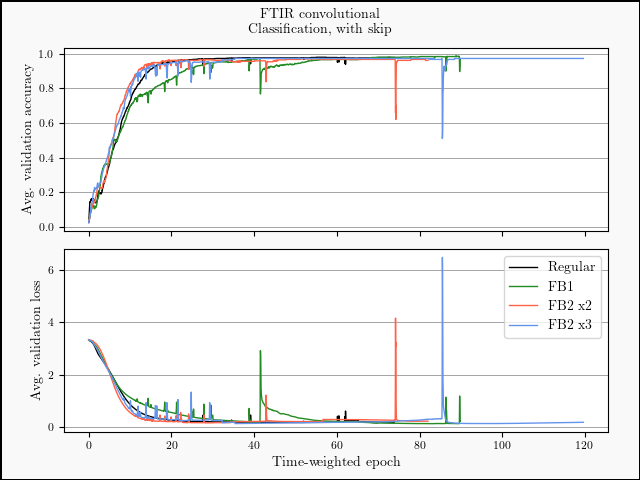
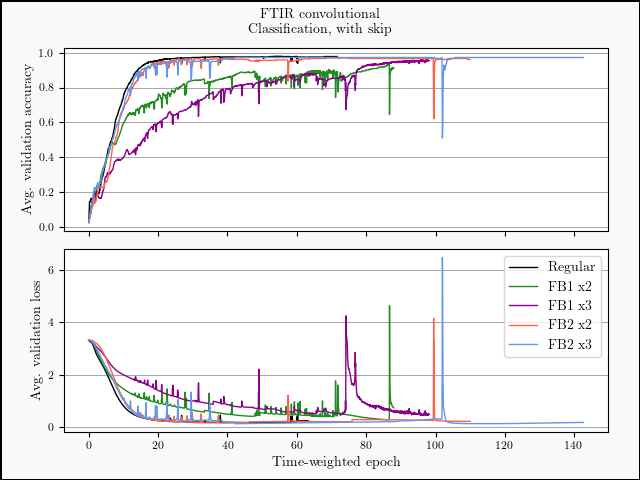
Corresponding timings.

diff --git a/output/timing/timetables/bike-regression.tex b/output/timing/timetables/bike-regression.tex
@@ -7,25 +7,33 @@
         \textbf{\footnotesize ARCHITECTURE} & \textbf{\footnotesize TRAIN} & \textbf{\footnotesize VALIDATE} \\ 
  \hline 
 
-\shortstack[l]{\\ {} \\ \textbf{Regular}\\{w. bypassing skip}} & 75.9705 $\pm$ 0.3820 & 8.0148 $\pm$ 0.5821 \\
+\shortstack[l]{\\ {} \\ \textbf{Regular}\\{w. bypassing skip}} & 76.6534 $\pm$ 0.6014 & 7.7565 $\pm$ 0.6280 \\
  \hline 
-\shortstack[l]{\\ {} \\ \textbf{FB1}\\{w. bypassing skip}} & 80.1148 $\pm$ 0.9472 & 11.7724 $\pm$ 1.0064 \\
+\shortstack[l]{\\ {} \\ \textbf{FB1 x2}\\{w. bypassing skip}} & 82.0148 $\pm$ 0.3988 & 11.0434 $\pm$ 0.2513 \\
  \hline 
-\shortstack[l]{\\ {} \\ \textbf{FB2 x2}\\{w. bypassing skip}} & 132.4095 $\pm$ 0.4612 & 9.7672 $\pm$ 0.7060 \\
+\shortstack[l]{\\ {} \\ \textbf{FB1 x3}\\{w. bypassing skip}} & 86.5867 $\pm$ 1.1901 & 13.7129 $\pm$ 0.4035 \\
  \hline 
-\shortstack[l]{\\ {} \\ \textbf{FB2 x3}\\{w. bypassing skip}} & 177.6235 $\pm$ 0.5752 & 11.8099 $\pm$ 0.3958 \\
+\shortstack[l]{\\ {} \\ \textbf{FB1 x4}\\{w. bypassing skip}} & 90.5914 $\pm$ 0.3139 & 16.8373 $\pm$ 0.6342 \\
  \hline 
-\shortstack[l]{\\ {} \\ \textbf{FB2 x4}\\{w. bypassing skip}} & 219.5080 $\pm$ 0.5722 & 13.3959 $\pm$ 0.4545 \\
+\shortstack[l]{\\ {} \\ \textbf{FB2 x2}\\{w. bypassing skip}} & 135.2480 $\pm$ 0.6549 & 10.4886 $\pm$ 0.9687 \\
  \hline 
-\shortstack[l]{\\ {} \\ \textbf{Regular}\\{}} & 76.5679 $\pm$ 2.9369 & 6.8109 $\pm$ 0.3227 \\
+\shortstack[l]{\\ {} \\ \textbf{FB2 x3}\\{w. bypassing skip}} & 180.5462 $\pm$ 1.0890 & 12.3552 $\pm$ 0.6880 \\
  \hline 
-\shortstack[l]{\\ {} \\ \textbf{FB1}\\{}} & 78.2570 $\pm$ 1.3111 & 10.6004 $\pm$ 1.1105 \\
+\shortstack[l]{\\ {} \\ \textbf{FB2 x4}\\{w. bypassing skip}} & 222.1115 $\pm$ 0.8668 & 13.5646 $\pm$ 0.5086 \\
  \hline 
-\shortstack[l]{\\ {} \\ \textbf{FB2 x2}\\{}} & 130.3365 $\pm$ 1.8586 & 9.5661 $\pm$ 0.7955 \\
+\shortstack[l]{\\ {} \\ \textbf{Regular}\\{}} & 77.2953 $\pm$ 3.5526 & 7.6299 $\pm$ 0.7447 \\
  \hline 
-\shortstack[l]{\\ {} \\ \textbf{FB2 x3}\\{}} & 176.8998 $\pm$ 0.8752 & 11.2936 $\pm$ 0.3903 \\
+\shortstack[l]{\\ {} \\ \textbf{FB1 x2}\\{}} & 80.3674 $\pm$ 0.2398 & 11.0117 $\pm$ 0.3206 \\
  \hline 
-\shortstack[l]{\\ {} \\ \textbf{FB2 x4}\\{}} & 219.8311 $\pm$ 1.6837 & 13.7131 $\pm$ 0.4333 \\
+\shortstack[l]{\\ {} \\ \textbf{FB1 x3}\\{}} & 84.0577 $\pm$ 0.5085 & 13.2720 $\pm$ 0.7195 \\
+ \hline 
+\shortstack[l]{\\ {} \\ \textbf{FB1 x4}\\{}} & 88.9571 $\pm$ 0.6759 & 16.5779 $\pm$ 0.5812 \\
+ \hline 
+\shortstack[l]{\\ {} \\ \textbf{FB2 x2}\\{}} & 133.5556 $\pm$ 0.8742 & 10.0652 $\pm$ 1.0247 \\
+ \hline 
+\shortstack[l]{\\ {} \\ \textbf{FB2 x3}\\{}} & 180.2148 $\pm$ 0.3895 & 11.3339 $\pm$ 0.3349 \\
+ \hline 
+\shortstack[l]{\\ {} \\ \textbf{FB2 x4}\\{}} & 227.6535 $\pm$ 7.1384 & 14.9661 $\pm$ 1.8756 \\
  \hline 
 
     \end{tabular}

diff --git a/output/timing/timetables/iris-classification.tex b/output/timing/timetables/iris-classification.tex
@@ -7,25 +7,33 @@
         \textbf{\footnotesize ARCHITECTURE} & \textbf{\footnotesize TRAIN} & \textbf{\footnotesize VALIDATE} \\ 
  \hline 
 
-\shortstack[l]{\\ {} \\ \textbf{Regular}\\{w. bypassing skip}} & 2.3981 $\pm$ 0.0446 & 0.1922 $\pm$ 0.0248 \\
+\shortstack[l]{\\ {} \\ \textbf{Regular}\\{w. bypassing skip}} & 2.8895 $\pm$ 0.2022 & 0.1707 $\pm$ 0.0181 \\
  \hline 
-\shortstack[l]{\\ {} \\ \textbf{FB1}\\{w. bypassing skip}} & 2.2181 $\pm$ 0.0942 & 0.1783 $\pm$ 0.0142 \\
+\shortstack[l]{\\ {} \\ \textbf{FB1 x2}\\{w. bypassing skip}} & 2.4016 $\pm$ 0.0739 & 0.2073 $\pm$ 0.0247 \\
  \hline 
-\shortstack[l]{\\ {} \\ \textbf{FB2 x2}\\{w. bypassing skip}} & 4.6031 $\pm$ 0.0673 & 0.1720 $\pm$ 0.0242 \\
+\shortstack[l]{\\ {} \\ \textbf{FB1 x3}\\{w. bypassing skip}} & 2.2585 $\pm$ 0.0783 & 0.2313 $\pm$ 0.0518 \\
  \hline 
-\shortstack[l]{\\ {} \\ \textbf{FB2 x3}\\{w. bypassing skip}} & 6.4967 $\pm$ 0.0417 & 0.1795 $\pm$ 0.0074 \\
+\shortstack[l]{\\ {} \\ \textbf{FB1 x4}\\{w. bypassing skip}} & 2.4088 $\pm$ 0.1126 & 0.2224 $\pm$ 0.0085 \\
  \hline 
-\shortstack[l]{\\ {} \\ \textbf{FB2 x4}\\{w. bypassing skip}} & 8.5819 $\pm$ 0.0842 & 0.2048 $\pm$ 0.0195 \\
+\shortstack[l]{\\ {} \\ \textbf{FB2 x2}\\{w. bypassing skip}} & 4.6446 $\pm$ 0.0626 & 0.1709 $\pm$ 0.0153 \\
  \hline 
-\shortstack[l]{\\ {} \\ \textbf{Regular}\\{}} & 2.3590 $\pm$ 0.2521 & 0.1866 $\pm$ 0.0162 \\
+\shortstack[l]{\\ {} \\ \textbf{FB2 x3}\\{w. bypassing skip}} & 6.5823 $\pm$ 0.0843 & 0.1829 $\pm$ 0.0173 \\
  \hline 
-\shortstack[l]{\\ {} \\ \textbf{FB1}\\{}} & 2.3958 $\pm$ 0.0791 & 0.2137 $\pm$ 0.0300 \\
+\shortstack[l]{\\ {} \\ \textbf{FB2 x4}\\{w. bypassing skip}} & 8.5853 $\pm$ 0.0396 & 0.2016 $\pm$ 0.0142 \\
  \hline 
-\shortstack[l]{\\ {} \\ \textbf{FB2 x2}\\{}} & 4.6697 $\pm$ 0.0940 & 0.1513 $\pm$ 0.0054 \\
+\shortstack[l]{\\ {} \\ \textbf{Regular}\\{}} & 3.5290 $\pm$ 0.5723 & 0.2382 $\pm$ 0.0243 \\
  \hline 
-\shortstack[l]{\\ {} \\ \textbf{FB2 x3}\\{}} & 6.5351 $\pm$ 0.0788 & 0.1754 $\pm$ 0.0094 \\
+\shortstack[l]{\\ {} \\ \textbf{FB1 x2}\\{}} & 2.6712 $\pm$ 0.1747 & 0.1963 $\pm$ 0.0193 \\
  \hline 
-\shortstack[l]{\\ {} \\ \textbf{FB2 x4}\\{}} & 8.4846 $\pm$ 0.0386 & 0.1978 $\pm$ 0.0136 \\
+\shortstack[l]{\\ {} \\ \textbf{FB1 x3}\\{}} & 2.2863 $\pm$ 0.0653 & 0.1777 $\pm$ 0.0079 \\
+ \hline 
+\shortstack[l]{\\ {} \\ \textbf{FB1 x4}\\{}} & 2.2914 $\pm$ 0.0678 & 0.2130 $\pm$ 0.0055 \\
+ \hline 
+\shortstack[l]{\\ {} \\ \textbf{FB2 x2}\\{}} & 4.6293 $\pm$ 0.0463 & 0.1675 $\pm$ 0.0080 \\
+ \hline 
+\shortstack[l]{\\ {} \\ \textbf{FB2 x3}\\{}} & 6.5828 $\pm$ 0.0654 & 0.1701 $\pm$ 0.0063 \\
+ \hline 
+\shortstack[l]{\\ {} \\ \textbf{FB2 x4}\\{}} & 8.5471 $\pm$ 0.1082 & 0.1824 $\pm$ 0.0098 \\
  \hline 
 
     \end{tabular}

diff --git a/output/timing/timetables/mnist-classification.tex b/output/timing/timetables/mnist-classification.tex
@@ -7,21 +7,25 @@
         \textbf{\footnotesize ARCHITECTURE} & \textbf{\footnotesize TRAIN} & \textbf{\footnotesize VALIDATE} \\ 
  \hline 
 
-\shortstack[l]{\\ {} \\ \textbf{Regular}\\{w. bypassing skip}} & 1244.9171 $\pm$ 26.6905 & 379.9297 $\pm$ 6.0390 \\
+\shortstack[l]{\\ {} \\ \textbf{Regular}\\{w. bypassing skip}} & 3042.1152 $\pm$ 42.6419 & 1110.6136 $\pm$ 15.7780 \\
  \hline 
-\shortstack[l]{\\ {} \\ \textbf{FB1}\\{w. bypassing skip}} & 1483.4018 $\pm$ 11.8231 & 658.9507 $\pm$ 14.3373 \\
+\shortstack[l]{\\ {} \\ \textbf{FB1 x2}\\{w. bypassing skip}} & 4346.5104 $\pm$ 449.4945 & 2402.9464 $\pm$ 402.4600 \\
  \hline 
-\shortstack[l]{\\ {} \\ \textbf{FB2 x2}\\{w. bypassing skip}} & 1619.3873 $\pm$ 23.5440 & 488.7043 $\pm$ 5.9667 \\
+\shortstack[l]{\\ {} \\ \textbf{FB1 x3}\\{w. bypassing skip}} & 5139.4544 $\pm$ 32.1400 & 3167.2372 $\pm$ 82.9933 \\
  \hline 
-\shortstack[l]{\\ {} \\ \textbf{FB2 x3}\\{w. bypassing skip}} & 1918.0952 $\pm$ 43.6898 & 591.3666 $\pm$ 14.7267 \\
+\shortstack[l]{\\ {} \\ \textbf{FB2 x2}\\{w. bypassing skip}} & 4442.6498 $\pm$ 423.9953 & 1588.4475 $\pm$ 43.7182 \\
  \hline 
-\shortstack[l]{\\ {} \\ \textbf{Regular}\\{}} & 1077.0990 $\pm$ 38.7981 & 346.6381 $\pm$ 17.0221 \\
+\shortstack[l]{\\ {} \\ \textbf{FB2 x3}\\{w. bypassing skip}} & 5103.3828 $\pm$ 40.2133 & 1898.3365 $\pm$ 42.5761 \\
  \hline 
-\shortstack[l]{\\ {} \\ \textbf{FB1}\\{}} & 1421.4692 $\pm$ 49.4162 & 629.6641 $\pm$ 14.7030 \\
+\shortstack[l]{\\ {} \\ \textbf{Regular}\\{}} & 3025.0623 $\pm$ 253.5527 & 1111.9126 $\pm$ 89.5193 \\
  \hline 
-\shortstack[l]{\\ {} \\ \textbf{FB2 x2}\\{}} & 1562.4307 $\pm$ 49.9045 & 466.2632 $\pm$ 4.9649 \\
+\shortstack[l]{\\ {} \\ \textbf{FB1 x2}\\{}} & 4129.2031 $\pm$ 495.7661 & 2038.0208 $\pm$ 37.5680 \\
  \hline 
-\shortstack[l]{\\ {} \\ \textbf{FB2 x3}\\{}} & 1824.9791 $\pm$ 29.7431 & 559.1030 $\pm$ 7.2587 \\
+\shortstack[l]{\\ {} \\ \textbf{FB1 x3}\\{}} & 5153.8044 $\pm$ 336.3554 & 3082.0469 $\pm$ 125.0374 \\
+ \hline 
+\shortstack[l]{\\ {} \\ \textbf{FB2 x2}\\{}} & 4059.0911 $\pm$ 39.0143 & 1509.9711 $\pm$ 34.3763 \\
+ \hline 
+\shortstack[l]{\\ {} \\ \textbf{FB2 x3}\\{}} & 4994.6456 $\pm$ 95.7167 & 1808.7060 $\pm$ 18.6353 \\
  \hline 
 
     \end{tabular}

diff --git a/output/timing/timetables/ftir-mlp-regression.tex b/output/timing/timetables/ftir-mlp-regression.tex
@@ -7,21 +7,25 @@
         \textbf{\footnotesize ARCHITECTURE} & \textbf{\footnotesize TRAIN} & \textbf{\footnotesize VALIDATE} \\ 
  \hline 
 
-\shortstack[l]{\\ {} \\ \textbf{Regular}\\{w. bypassing skip}} & 113.1705 $\pm$ 0.3317 & 13.6336 $\pm$ 0.2127 \\
+\shortstack[l]{\\ {} \\ \textbf{Regular}\\{w. bypassing skip}} & 114.2364 $\pm$ 1.9832 & 14.0084 $\pm$ 0.5803 \\
  \hline 
-\shortstack[l]{\\ {} \\ \textbf{FB1}\\{w. bypassing skip}} & 117.3700 $\pm$ 1.2993 & 19.3259 $\pm$ 0.4865 \\
+\shortstack[l]{\\ {} \\ \textbf{FB1 x2}\\{w. bypassing skip}} & 118.5842 $\pm$ 0.5908 & 19.0494 $\pm$ 0.1721 \\
  \hline 
-\shortstack[l]{\\ {} \\ \textbf{FB2 x2}\\{w. bypassing skip}} & 168.4312 $\pm$ 2.5555 & 19.6201 $\pm$ 1.3195 \\
+\shortstack[l]{\\ {} \\ \textbf{FB1 x3}\\{w. bypassing skip}} & 125.9337 $\pm$ 1.5775 & 25.6489 $\pm$ 1.1482 \\
  \hline 
-\shortstack[l]{\\ {} \\ \textbf{FB2 x3}\\{w. bypassing skip}} & 224.3915 $\pm$ 1.0736 & 23.7152 $\pm$ 0.1682 \\
+\shortstack[l]{\\ {} \\ \textbf{FB2 x2}\\{w. bypassing skip}} & 167.9271 $\pm$ 2.5081 & 19.0227 $\pm$ 0.5400 \\
  \hline 
-\shortstack[l]{\\ {} \\ \textbf{Regular}\\{}} & 111.8003 $\pm$ 3.8705 & 13.4021 $\pm$ 0.1728 \\
+\shortstack[l]{\\ {} \\ \textbf{FB2 x3}\\{w. bypassing skip}} & 230.3151 $\pm$ 6.7906 & 27.4632 $\pm$ 4.9133 \\
  \hline 
-\shortstack[l]{\\ {} \\ \textbf{FB1}\\{}} & 124.7715 $\pm$ 4.4150 & 21.1040 $\pm$ 1.5221 \\
+\shortstack[l]{\\ {} \\ \textbf{Regular}\\{}} & 126.2813 $\pm$ 23.0327 & 15.1424 $\pm$ 1.6138 \\
  \hline 
-\shortstack[l]{\\ {} \\ \textbf{FB2 x2}\\{}} & 166.0386 $\pm$ 2.3251 & 19.0278 $\pm$ 0.4051 \\
+\shortstack[l]{\\ {} \\ \textbf{FB1 x2}\\{}} & 118.6715 $\pm$ 1.0886 & 18.8166 $\pm$ 0.1122 \\
  \hline 
-\shortstack[l]{\\ {} \\ \textbf{FB2 x3}\\{}} & 223.8277 $\pm$ 1.3820 & 23.8794 $\pm$ 0.1326 \\
+\shortstack[l]{\\ {} \\ \textbf{FB1 x3}\\{}} & 124.4660 $\pm$ 1.1686 & 24.7361 $\pm$ 0.9205 \\
+ \hline 
+\shortstack[l]{\\ {} \\ \textbf{FB2 x2}\\{}} & 166.7312 $\pm$ 1.4766 & 18.8392 $\pm$ 0.5382 \\
+ \hline 
+\shortstack[l]{\\ {} \\ \textbf{FB2 x3}\\{}} & 224.8663 $\pm$ 2.5394 & 24.1635 $\pm$ 0.5734 \\
  \hline 
 
     \end{tabular}

diff --git a/output/timing/timetables/ftir-mlp-classification.tex b/output/timing/timetables/ftir-mlp-classification.tex
@@ -7,21 +7,25 @@
         \textbf{\footnotesize ARCHITECTURE} & \textbf{\footnotesize TRAIN} & \textbf{\footnotesize VALIDATE} \\ 
  \hline 
 
-\shortstack[l]{\\ {} \\ \textbf{Regular}\\{w. bypassing skip}} & 114.8883 $\pm$ 3.2303 & 13.9118 $\pm$ 0.3275 \\
+\shortstack[l]{\\ {} \\ \textbf{Regular}\\{w. bypassing skip}} & 117.8332 $\pm$ 2.2718 & 14.0625 $\pm$ 0.2071 \\
  \hline 
-\shortstack[l]{\\ {} \\ \textbf{FB1}\\{w. bypassing skip}} & 118.8764 $\pm$ 1.7919 & 19.1834 $\pm$ 0.3811 \\
+\shortstack[l]{\\ {} \\ \textbf{FB1 x2}\\{w. bypassing skip}} & 122.5593 $\pm$ 0.9532 & 19.2160 $\pm$ 0.1198 \\
  \hline 
-\shortstack[l]{\\ {} \\ \textbf{FB2 x2}\\{w. bypassing skip}} & 172.2290 $\pm$ 4.8663 & 19.2738 $\pm$ 0.4233 \\
+\shortstack[l]{\\ {} \\ \textbf{FB1 x3}\\{w. bypassing skip}} & 127.7315 $\pm$ 0.6363 & 24.9530 $\pm$ 0.5638 \\
  \hline 
-\shortstack[l]{\\ {} \\ \textbf{FB2 x3}\\{w. bypassing skip}} & 229.2681 $\pm$ 1.8257 & 24.4219 $\pm$ 0.1578 \\
+\shortstack[l]{\\ {} \\ \textbf{FB2 x2}\\{w. bypassing skip}} & 169.2054 $\pm$ 1.4866 & 18.8921 $\pm$ 0.2985 \\
  \hline 
-\shortstack[l]{\\ {} \\ \textbf{Regular}\\{}} & 113.9208 $\pm$ 2.6547 & 13.6567 $\pm$ 0.1617 \\
+\shortstack[l]{\\ {} \\ \textbf{FB2 x3}\\{w. bypassing skip}} & 223.8243 $\pm$ 0.8760 & 23.5996 $\pm$ 0.1096 \\
  \hline 
-\shortstack[l]{\\ {} \\ \textbf{FB1}\\{}} & 122.3657 $\pm$ 0.3078 & 19.5128 $\pm$ 0.2440 \\
+\shortstack[l]{\\ {} \\ \textbf{Regular}\\{}} & 117.3054 $\pm$ 1.2314 & 13.9796 $\pm$ 0.3384 \\
  \hline 
-\shortstack[l]{\\ {} \\ \textbf{FB2 x2}\\{}} & 176.8346 $\pm$ 8.5382 & 19.3723 $\pm$ 0.0988 \\
+\shortstack[l]{\\ {} \\ \textbf{FB1 x2}\\{}} & 125.3718 $\pm$ 3.6285 & 20.1196 $\pm$ 1.1787 \\
  \hline 
-\shortstack[l]{\\ {} \\ \textbf{FB2 x3}\\{}} & 227.7301 $\pm$ 1.9876 & 24.1658 $\pm$ 0.4257 \\
+\shortstack[l]{\\ {} \\ \textbf{FB1 x3}\\{}} & 133.6124 $\pm$ 6.5351 & 26.4713 $\pm$ 1.9135 \\
+ \hline 
+\shortstack[l]{\\ {} \\ \textbf{FB2 x2}\\{}} & 173.8275 $\pm$ 6.0568 & 18.9424 $\pm$ 0.5366 \\
+ \hline 
+\shortstack[l]{\\ {} \\ \textbf{FB2 x3}\\{}} & 239.1711 $\pm$ 7.2460 & 24.8984 $\pm$ 0.5727 \\
  \hline 
 
     \end{tabular}

diff --git a/output/timing/timetables/ftir-cnn-regression.tex b/output/timing/timetables/ftir-cnn-regression.tex
@@ -7,21 +7,25 @@
         \textbf{\footnotesize ARCHITECTURE} & \textbf{\footnotesize TRAIN} & \textbf{\footnotesize VALIDATE} \\ 
  \hline 
 
-\shortstack[l]{\\ {} \\ \textbf{Regular}\\{w. bypassing skip}} & 28.3277 $\pm$ 0.4829 & 6.5614 $\pm$ 0.0694 \\
+\shortstack[l]{\\ {} \\ \textbf{Regular}\\{w. bypassing skip}} & 27.9501 $\pm$ 0.1587 & 6.3343 $\pm$ 0.1671 \\
  \hline 
-\shortstack[l]{\\ {} \\ \textbf{FB1}\\{w. bypassing skip}} & 31.7322 $\pm$ 0.6306 & 10.0825 $\pm$ 0.2209 \\
+\shortstack[l]{\\ {} \\ \textbf{FB1 x2}\\{w. bypassing skip}} & 32.8026 $\pm$ 0.4783 & 10.8142 $\pm$ 0.0887 \\
  \hline 
-\shortstack[l]{\\ {} \\ \textbf{FB2 x2}\\{w. bypassing skip}} & 38.4845 $\pm$ 1.3548 & 10.1384 $\pm$ 0.6906 \\
+\shortstack[l]{\\ {} \\ \textbf{FB1 x3}\\{w. bypassing skip}} & 38.0048 $\pm$ 1.1317 & 15.7976 $\pm$ 0.5170 \\
  \hline 
-\shortstack[l]{\\ {} \\ \textbf{FB2 x3}\\{w. bypassing skip}} & 48.1464 $\pm$ 2.2174 & 13.2795 $\pm$ 0.2225 \\
+\shortstack[l]{\\ {} \\ \textbf{FB2 x2}\\{w. bypassing skip}} & 47.5055 $\pm$ 8.8509 & 15.2880 $\pm$ 8.6331 \\
  \hline 
-\shortstack[l]{\\ {} \\ \textbf{Regular}\\{}} & 27.3442 $\pm$ 0.3588 & 6.3414 $\pm$ 0.6589 \\
+\shortstack[l]{\\ {} \\ \textbf{FB2 x3}\\{w. bypassing skip}} & 66.7843 $\pm$ 11.9086 & 18.0006 $\pm$ 2.0088 \\
  \hline 
-\shortstack[l]{\\ {} \\ \textbf{FB1}\\{}} & 31.1966 $\pm$ 0.2191 & 9.9429 $\pm$ 0.3135 \\
+\shortstack[l]{\\ {} \\ \textbf{Regular}\\{}} & 27.2264 $\pm$ 0.4227 & 5.9998 $\pm$ 0.0815 \\
  \hline 
-\shortstack[l]{\\ {} \\ \textbf{FB2 x2}\\{}} & 41.0317 $\pm$ 4.5856 & 11.5794 $\pm$ 3.0173 \\
+\shortstack[l]{\\ {} \\ \textbf{FB1 x2}\\{}} & 31.6938 $\pm$ 0.2128 & 10.3298 $\pm$ 0.0437 \\
  \hline 
-\shortstack[l]{\\ {} \\ \textbf{FB2 x3}\\{}} & 46.8368 $\pm$ 0.4248 & 12.9976 $\pm$ 0.2010 \\
+\shortstack[l]{\\ {} \\ \textbf{FB1 x3}\\{}} & 36.3774 $\pm$ 0.6513 & 14.5477 $\pm$ 0.1654 \\
+ \hline 
+\shortstack[l]{\\ {} \\ \textbf{FB2 x2}\\{}} & 43.1786 $\pm$ 4.4912 & 10.4400 $\pm$ 0.8912 \\
+ \hline 
+\shortstack[l]{\\ {} \\ \textbf{FB2 x3}\\{}} & 53.0383 $\pm$ 5.7208 & 15.8680 $\pm$ 3.5270 \\
  \hline 
 
     \end{tabular}

diff --git a/output/timing/timetables/ftir-cnn-classification.tex b/output/timing/timetables/ftir-cnn-classification.tex
@@ -7,21 +7,25 @@
         \textbf{\footnotesize ARCHITECTURE} & \textbf{\footnotesize TRAIN} & \textbf{\footnotesize VALIDATE} \\ 
  \hline 
 
-\shortstack[l]{\\ {} \\ \textbf{Regular}\\{w. bypassing skip}} & 29.5491 $\pm$ 0.7304 & 6.6303 $\pm$ 0.1993 \\
+\shortstack[l]{\\ {} \\ \textbf{Regular}\\{w. bypassing skip}} & 28.6657 $\pm$ 0.3024 & 6.3688 $\pm$ 0.0919 \\
  \hline 
-\shortstack[l]{\\ {} \\ \textbf{FB1}\\{w. bypassing skip}} & 35.9409 $\pm$ 4.2065 & 10.3321 $\pm$ 0.3098 \\
+\shortstack[l]{\\ {} \\ \textbf{FB1 x2}\\{w. bypassing skip}} & 35.2006 $\pm$ 3.7656 & 10.6445 $\pm$ 0.2186 \\
  \hline 
-\shortstack[l]{\\ {} \\ \textbf{FB2 x2}\\{w. bypassing skip}} & 38.3691 $\pm$ 0.5256 & 9.7577 $\pm$ 0.1485 \\
+\shortstack[l]{\\ {} \\ \textbf{FB1 x3}\\{w. bypassing skip}} & 39.2563 $\pm$ 2.2589 & 15.4847 $\pm$ 0.2005 \\
  \hline 
-\shortstack[l]{\\ {} \\ \textbf{FB2 x3}\\{w. bypassing skip}} & 47.8414 $\pm$ 0.4577 & 13.7637 $\pm$ 0.9324 \\
+\shortstack[l]{\\ {} \\ \textbf{FB2 x2}\\{w. bypassing skip}} & 51.4553 $\pm$ 7.0838 & 15.6129 $\pm$ 2.6335 \\
  \hline 
-\shortstack[l]{\\ {} \\ \textbf{Regular}\\{}} & 29.2514 $\pm$ 2.1746 & 6.3173 $\pm$ 0.4434 \\
+\shortstack[l]{\\ {} \\ \textbf{FB2 x3}\\{w. bypassing skip}} & 57.0663 $\pm$ 5.9464 & 14.3683 $\pm$ 0.4338 \\
  \hline 
-\shortstack[l]{\\ {} \\ \textbf{FB1}\\{}} & 32.3028 $\pm$ 0.3426 & 9.9620 $\pm$ 0.1203 \\
+\shortstack[l]{\\ {} \\ \textbf{Regular}\\{}} & 29.6203 $\pm$ 2.4750 & 6.0915 $\pm$ 0.0517 \\
  \hline 
-\shortstack[l]{\\ {} \\ \textbf{FB2 x2}\\{}} & 38.3710 $\pm$ 0.2443 & 9.6735 $\pm$ 0.1612 \\
+\shortstack[l]{\\ {} \\ \textbf{FB1 x2}\\{}} & 32.5581 $\pm$ 0.7235 & 10.2522 $\pm$ 0.1251 \\
  \hline 
-\shortstack[l]{\\ {} \\ \textbf{FB2 x3}\\{}} & 47.6362 $\pm$ 0.7912 & 12.9554 $\pm$ 0.2297 \\
+\shortstack[l]{\\ {} \\ \textbf{FB1 x3}\\{}} & 38.8022 $\pm$ 2.7452 & 15.3417 $\pm$ 1.3117 \\
+ \hline 
+\shortstack[l]{\\ {} \\ \textbf{FB2 x2}\\{}} & 48.0433 $\pm$ 3.2536 & 13.2047 $\pm$ 2.4982 \\
+ \hline 
+\shortstack[l]{\\ {} \\ \textbf{FB2 x3}\\{}} & 68.7396 $\pm$ 14.4823 & 22.3301 $\pm$ 11.2190 \\
  \hline 
 
     \end{tabular}

diff --git a/documentation/timeweighted.py b/documentation/timeweighted.py
@@ -10,7 +10,7 @@ from matplotlib.font_manager import FontProperties
 _COLOUR = {
     "REGULAR": "black",
     "FB1x2": "forestgreen",
-    "FB1x3": "steelblue",
+    "FB1x3": "darkmagenta",
     "FB1x4": "palevioletred",
     "FB2x2": "tomato",
     "FB2x3": "cornflowerblue",
@@ -90,6 +90,8 @@ for problem in os.listdir("./output/timing/"):
                 continue
             if "ftir-mlp" in problem and which == "REGRESSION":
                 ax_loss.set_ylim(top=1000)
+            elif "bike" in problem and which == "REGRESSION":
+                ax_loss.set_ylim(top=200)
             else:
                 ax_loss.set_ylim(top=2000
                                 if max(ax_loss.get_ylim()) > 2000
